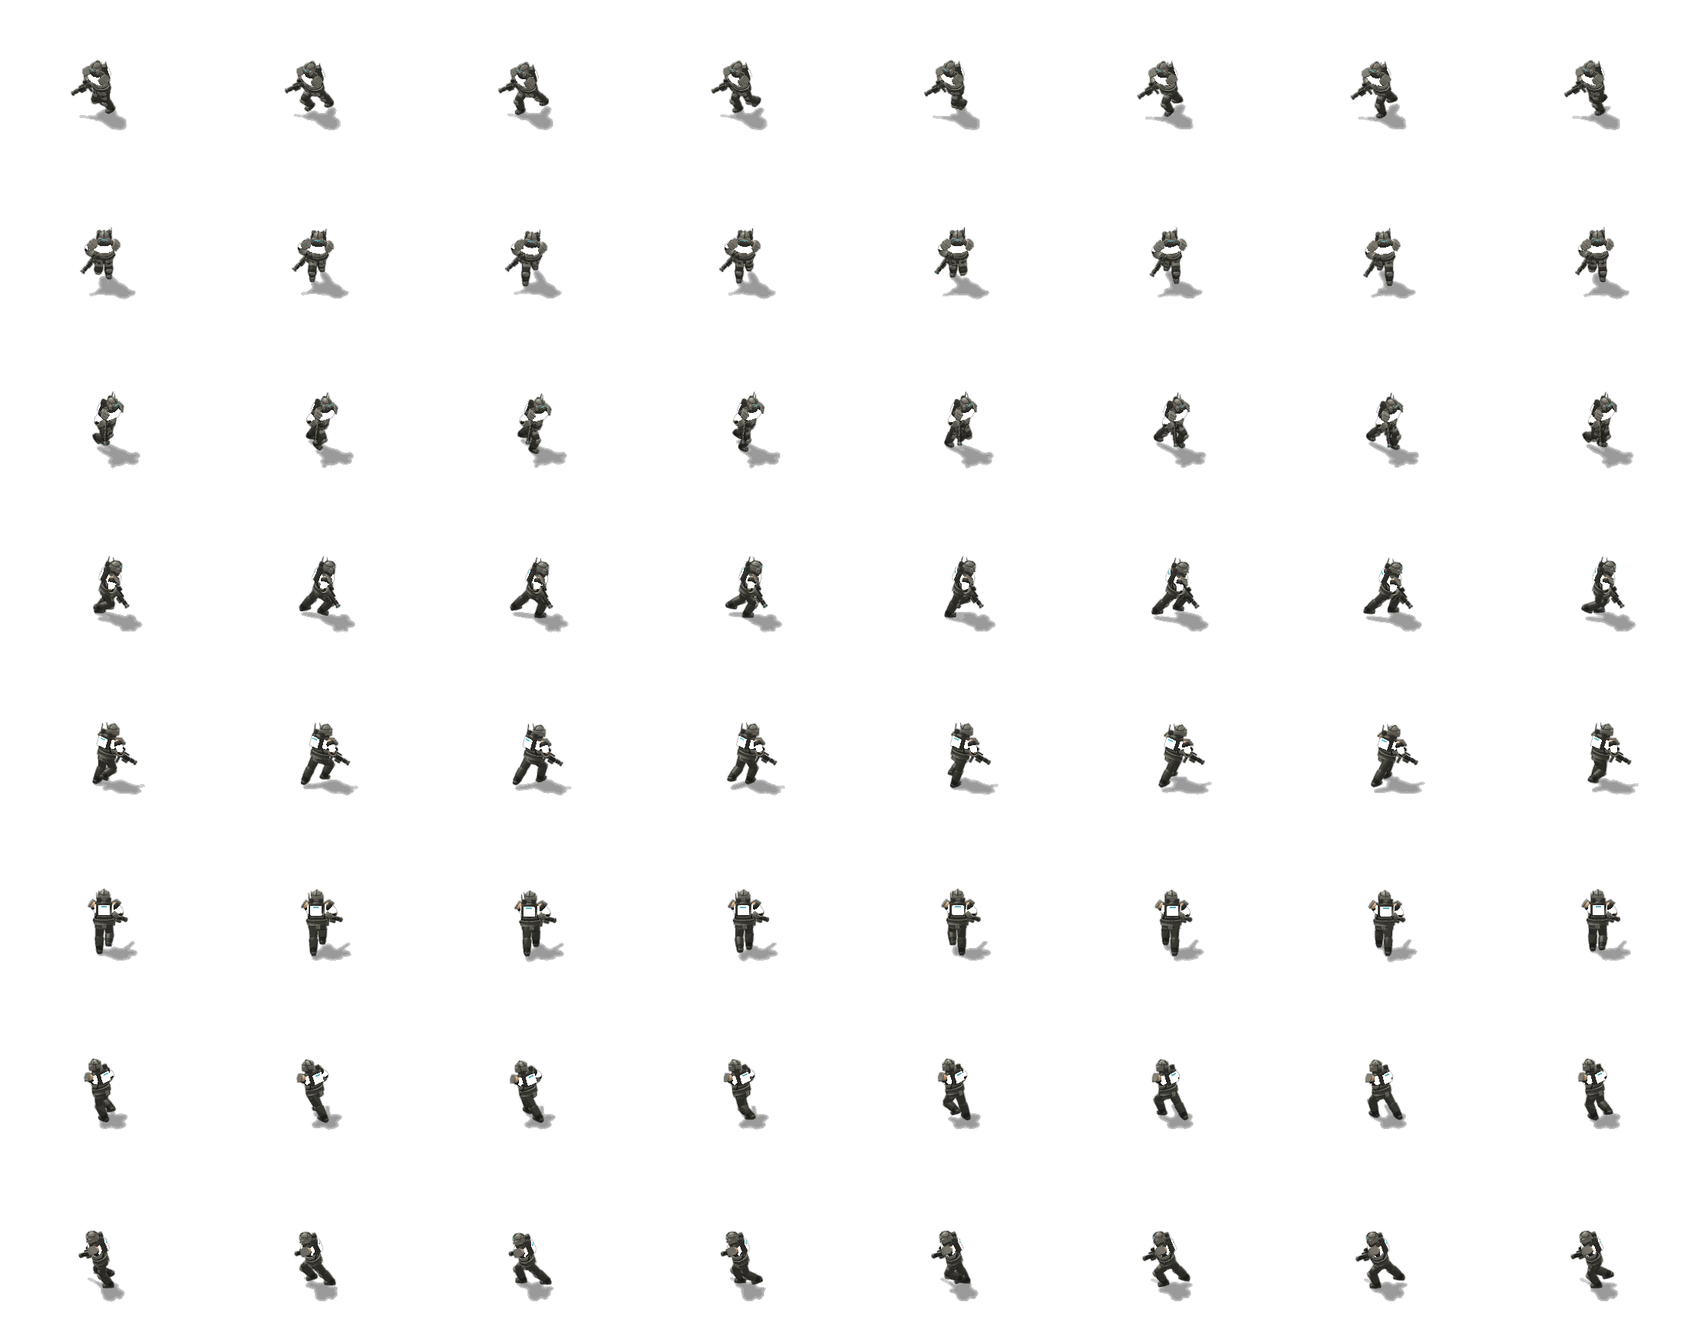
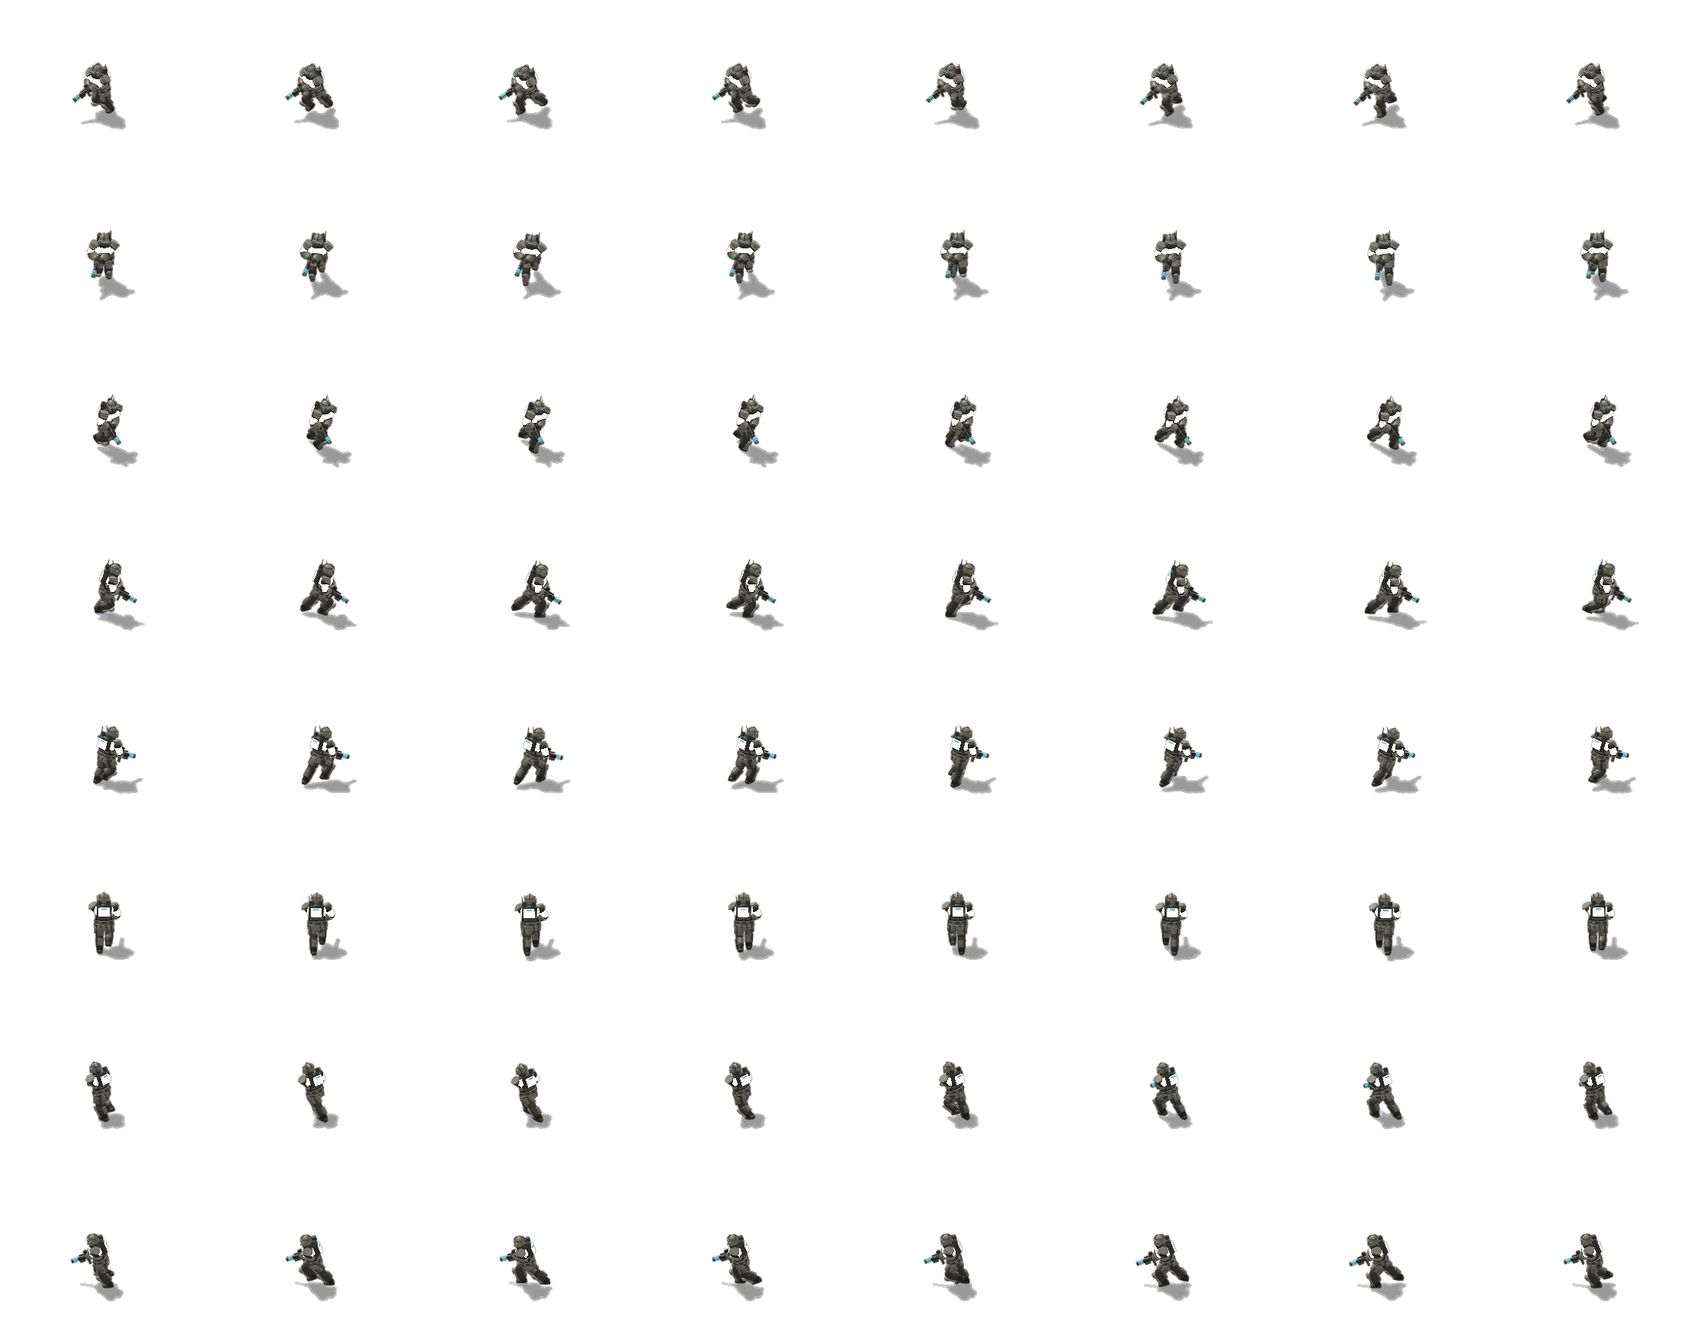
Round 2e for the four regulars, after the fourth review
Deaths (all four): the knees buckle and he falls on his back with the feet kept on the ground by the legs'
inverse kinematics; the arms go slack; the weapon lies beside him along his right side, still in hand.
Special Forces: the carbine carried further forward and the left elbow posed out, so the support arm crosses
in front of the plate carrier with the gloved hand on the handguard (run, attack, fortify). Super Trooper: no
skin in the suit (armoured upper arms, elbow cops, vambraces, gauntlets), pauldrons seated on the shoulder,
the rifle in both hands at a level low ready and fired level from the shoulder, a narrower chest plate with
panel lines, front and back plates proud of the suit on thighs and shins, side and hip plates, a segmented
waist ring, cyan coil rings on the barrel, scale 0.75 (about 1.14x the Marine's area).

diff --git a/ArtGen/units/models/regulars_foot.py b/ArtGen/units/models/regulars_foot.py
@@ -162,7 +162,9 @@ class RegBody(LF.LeagueBody):
         res = []
         for bone, mesh, tag in out:
             new = None
-            if bone.startswith('arm_') and sleeve is not None and len(mesh) and mesh.V[..., 2].min() > -0.12:
+            if p.get('armor') == 'exo' and bone.startswith(('arm_', 'forearm_', 'hand_')):
+                new = self.mats['armor_dark']      # no skin anywhere in the suit
+            elif bone.startswith('arm_') and sleeve is not None and len(mesh) and mesh.V[..., 2].min() > -0.12:
                 new = sleeve        # the shoulder ball only: the stock sleeve's elbow break stays
             elif bone.startswith(('thigh_', 'shin_')) and legs is not None:
                 new = legs
@@ -173,67 +175,82 @@ class RegBody(LF.LeagueBody):
 
     # -- the power armour
     def _exo(self, add, rings, tw, lb):
-        """Plates of a warm dark gunmetal over a darker suit: the chest plate
-        and the upper-arm plates in the civ color (where the stock soldiers'
-        shirts are), pauldrons of three stacked lames, worn lighter edges,
-        pistons down the legs. No lights but the pack's."""
+        """Plates of a warm gunmetal over a darker suit: the chest plate (with
+        panel lines), the back plate and the upper-arm plates in the civ
+        color; pauldrons of three lames seated on the shoulder joint;
+        armoured upper arms, elbows, vambraces and gauntlets; a segmented
+        waist ring and hip plates; front and back plates on thighs and shins,
+        big knee guards. No lights but the pack's and the visor."""
         pl = self.mm('plate', '#3c4aa0', spec=0.45, gloss=22)
         gm = self.mm('armor_grey', '#7c7a6e', spec=0.45, gloss=22, metal=True)
+        g2 = self.mm('armor_grey2', '#64625a', spec=0.45, gloss=22, metal=True)
         dk = self.mm('armor_dark', '#3a3934', spec=0.35, gloss=18, metal=True)
-        wr = self.mm('armor_wear', '#5e5c54', spec=0.45, gloss=22, metal=True)
         g = 0.045
         # the suit's yoke over the shoulders, the chest plate a shell over the
-        # front, the back plate behind, a collar
+        # front (narrower than the chest: grey side plates under the arms),
+        # panel lines on it, the back plate behind, a collar
         cr = [(z, rx + g, ry + g * 1.2, dx, dy) for z, rx, ry, dx, dy in rings[:4]]
         add('chest', M.loft([(z, rx + 0.022, ry + 0.026, dx, dy) for z, rx, ry, dx, dy in rings[1:5]], dk, seg=18,
                             cap_bottom=False, cap_top=True))
         front = [(-0.02, rings[0][1] + g * 0.6, rings[0][2] + g, 0, 0)] + cr[1:] + \
                 [(0.29, rings[4][1] + 0.06, rings[4][2] + 0.05, 0, 0)]
-        add('chest', H._shell(front, pl, math.radians(14), math.radians(166), seg=16))
-        # worn rim along the plate's lower edge, the centre ridge
-        f0 = front[0]
+        add('chest', H._shell(front, pl, math.radians(34), math.radians(146), seg=14))
+        for a0, a1 in ((8, 34), (146, 172)):
+            add('chest', H._shell([(z, rx - 0.004, ry - 0.004, dx, dy) for z, rx, ry, dx, dy in front[:4]], g2,
+                                  math.radians(a0), math.radians(a1), seg=4))
         yf = rings[1][2] + rings[1][4] + g * 1.2
+        add('chest', M.box(rings[1][1] * 1.05, 0.02, 0.016, dk, (0, yf + 0.008, 0.16)))              # panel lines
+        add('chest', M.box(rings[1][1] * 0.9, 0.02, 0.016, dk, (0, yf - 0.004, 0.06)))
+        for sx in (1, -1):
+            add('chest', M.box(0.016, 0.02, 0.09, dk, (sx * 0.09, yf + 0.004, 0.11)))
         back = [(-0.02, rings[0][1] + g * 0.6, rings[0][2] + g, 0, 0)] + cr[1:3] + \
                [(0.27, rings[3][1] + 0.03, rings[3][2] + 0.04, 0, 0)]
-        add('chest', H._shell(back, pl, math.radians(196), math.radians(344), seg=14))
+        add('chest', H._shell(back, pl, math.radians(200), math.radians(340), seg=14))
         add('chest', M.loft([(0.26, 0.15, 0.12), (0.36, 0.115, 0.10)], dk, seg=16, cap_bottom=False, cap_top=True))
         # the abdomen: bands, gunmetal and dark
         for i, z in enumerate((-0.04, 0.035, 0.11)):
             add('spine', M.cylinder(0.165 * tw + 0.035, 0.17 * tw + 0.035, 0.06, gm if i != 1 else dk, seg=16, z0=z)
                 .transformed(M.scale(1, 0.78, 1)))
-        # the belt with pouches, tassets
-        add('pelvis', M.loft([(-0.04, 0.19 * tw + 0.03, 0.14 * tw + 0.03), (0.10, 0.19 * tw + 0.028, 0.14 * tw + 0.028)],
+        # the waist ring in eight segments with gaps, over a dark belt; hip plates all round
+        add('pelvis', M.loft([(-0.02, 0.19 * tw + 0.02, 0.14 * tw + 0.02), (0.10, 0.19 * tw + 0.018, 0.14 * tw + 0.018)],
                              dk, seg=16, cap_bottom=True, cap_top=False))
-        for ang in (-50, -20, 20, 50, 180):
+        for k in range(8):
+            ang = 22.5 + 45 * k
+            a = math.radians(ang)
+            x, y = (0.19 * tw + 0.035) * math.cos(a), (0.14 * tw + 0.035) * math.sin(a)
+            add('pelvis', M.rounded_box(0.09, 0.03, 0.09, g2, (0, 0, 0.05), r=0.01, seg=6, p=4).transformed(
+                M.translate(x, y, 0) @ M.rot_z(ang - 90)))
+        for ang in (-60, -25, 25, 60, 90, -90, 150, 180, 210):
             a = math.radians(ang + 90)
-            x, y = 0.19 * tw * math.cos(a) * 1.08, 0.14 * tw * math.sin(a) * 1.15
+            x, y = 0.19 * tw * math.cos(a) * 1.12, 0.14 * tw * math.sin(a) * 1.2
             T = M.translate(x, y, 0.0) @ M.rot_z(ang) @ M.rot_x(-8)
-            add('pelvis', M.rounded_box(0.12, 0.025, 0.14, gm, (0, 0, -0.07), r=0.01, seg=6, p=4).transformed(T))
-        for sx in (1, -1):
-            add('pelvis', M.rounded_box(0.07, 0.06, 0.08, dk, (sx * 0.20 * tw, 0.04, 0.05), r=0.012, seg=6, p=4))
+            add('pelvis', M.rounded_box(0.12, 0.028, 0.15, gm, (0, 0, -0.075), r=0.01, seg=6, p=4).transformed(T))
         for side, sx in (('r', 1), ('l', -1)):
-            # pauldrons: three lames stacked down the shoulder, each angled out
+            # pauldrons: three lames seated on the shoulder joint, stepping down and out
             for k in range(3):
-                T = M.translate(sx * (0.06 + 0.04 * k), 0.0, 0.08 - 0.06 * k) @ M.rot_y(sx * (20 + 14 * k))
-                add(f'arm_{side}', M.rounded_box(0.22 - 0.02 * k, 0.26 - 0.02 * k, 0.05, gm, (0, 0, 0), r=0.016,
-                                                 seg=6, p=4).transformed(T))
-            # the upper-arm plate in the civ color, a dark elbow cop, a gunmetal vambrace, gauntlet
-            add(f'arm_{side}', M.capsule((0, 0, -0.10), (0, 0, -0.24), 0.07 * lb + 0.01, 0.064 * lb + 0.01, pl,
+                T = M.translate(sx * (0.025 + 0.03 * k), 0.0, 0.10 - 0.055 * k) @ M.rot_y(sx * (14 + 13 * k))
+                add(f'arm_{side}', M.rounded_box(0.24 - 0.025 * k, 0.27 - 0.025 * k, 0.05, gm if k != 1 else g2,
+                                                 (0, 0, 0), r=0.016, seg=6, p=4).transformed(T))
+            # armoured upper arm (civ color), a dark elbow cop, a gunmetal vambrace, a gauntlet
+            add(f'arm_{side}', M.capsule((0, 0, -0.03), (0, 0, -0.25), 0.072 * lb + 0.012, 0.066 * lb + 0.012, pl,
                                          seg=12, rings=2))
-            add(f'forearm_{side}', M.rounded_box(0.10, 0.11, 0.08, dk, (0, -0.02, 0.0), r=0.025, seg=6, p=3))
-            add(f'forearm_{side}', M.loft([(-0.22, 0.062 * lb + 0.016, 0.062 * lb + 0.016),
+            add(f'forearm_{side}', M.rounded_box(0.11, 0.12, 0.09, dk, (0, -0.02, 0.0), r=0.025, seg=6, p=3))
+            add(f'forearm_{side}', M.loft([(-0.24, 0.062 * lb + 0.016, 0.062 * lb + 0.016),
                                            (-0.12, 0.074 * lb + 0.022, 0.074 * lb + 0.022),
-                                           (-0.04, 0.07 * lb + 0.016, 0.07 * lb + 0.016)], gm, seg=12))
-            add(f'hand_{side}', M.ellipsoid(0.05 * H.HAND, 0.06 * H.HAND, 0.068 * H.HAND, dk, (0, 0.008, -0.055), seg=9))
-            # legs: thigh plates, knee cop, shin plate, boot armour, pistons on the outside
-            add(f'thigh_{side}', M.capsule((0, 0, 0.0), (0, 0, -H.THIGH + 0.04), 0.095 * lb, 0.078 * lb, dk, seg=12, rings=2))
-            add(f'thigh_{side}', M.rounded_box(0.21, 0.10, 0.28, gm, (0, 0.075, -0.17), r=0.04, seg=8, p=3))
-            add(f'shin_{side}', M.capsule((0, -0.01, 0.02), (0, -0.01, -0.06), 0.07 * lb, 0.07 * lb, dk, seg=10, rings=2))
-            add(f'shin_{side}', M.rounded_box(0.18, 0.10, 0.15, gm, (0, 0.095, -0.01), r=0.035, seg=8, p=3))
-            add(f'shin_{side}', M.capsule((0, 0, -0.05), (0, 0, -H.SHIN + 0.12), 0.088 * lb, 0.078 * lb, dk, seg=12, rings=2))
-            add(f'shin_{side}', M.rounded_box(0.19, 0.11, 0.25, gm, (0, 0.05, -0.19), r=0.04, seg=8, p=3))
-            add(f'thigh_{side}', M.rounded_box(0.19, 0.08, 0.26, gm, (0, -0.07, -0.17), r=0.035, seg=8, p=3))   # back of thigh
-            add(f'shin_{side}', M.rounded_box(0.16, 0.08, 0.24, gm, (0, -0.06, -0.17), r=0.035, seg=8, p=3))    # calf guard
+                                           (-0.03, 0.07 * lb + 0.018, 0.07 * lb + 0.018)], gm, seg=12))
+            add(f'hand_{side}', M.ellipsoid(0.052 * H.HAND, 0.062 * H.HAND, 0.07 * H.HAND, dk, (0, 0.008, -0.055), seg=9))
+            add(f'hand_{side}', M.rounded_box(0.07, 0.03, 0.07, g2, (0, -0.045, -0.05), r=0.012, seg=6, p=4))
+            # legs: front and back plates proud of the suit, big knee guards
+            rt, rs = 0.095 * lb, 0.088 * lb
+            add(f'thigh_{side}', M.capsule((0, 0, 0.0), (0, 0, -H.THIGH + 0.04), rt, 0.082 * lb, dk, seg=12, rings=2))
+            add(f'thigh_{side}', M.rounded_box(0.21, 0.07, 0.28, gm, (0, rt + 0.01, -0.17), r=0.03, seg=8, p=3))
+            add(f'thigh_{side}', M.rounded_box(0.19, 0.06, 0.25, g2, (0, -rt - 0.005, -0.17), r=0.028, seg=8, p=3))
+            add(f'thigh_{side}', M.rounded_box(0.05, 0.16, 0.22, g2, (sx * (rt + 0.005), 0.0, -0.16), r=0.02, seg=8, p=3))
+            add(f'shin_{side}', M.capsule((0, -0.01, 0.02), (0, -0.01, -0.06), 0.075 * lb, 0.075 * lb, dk, seg=10, rings=2))
+            add(f'shin_{side}', M.rounded_box(0.19, 0.09, 0.16, gm, (0, rs + 0.03, -0.01), r=0.035, seg=8, p=3))   # knee
+            add(f'shin_{side}', M.capsule((0, 0, -0.05), (0, 0, -H.SHIN + 0.12), rs, 0.078 * lb, dk, seg=12, rings=2))
+            add(f'shin_{side}', M.rounded_box(0.19, 0.07, 0.24, gm, (0, rs + 0.005, -0.19), r=0.03, seg=8, p=3))   # shin
+            add(f'shin_{side}', M.rounded_box(0.17, 0.06, 0.22, g2, (0, -rs - 0.005, -0.17), r=0.028, seg=8, p=3))  # calf
             add(f'foot_{side}', M.rounded_box(0.135 * H.FOOT, 0.28 * H.FOOT, 0.11, dk, (0, 0.05, -0.035), r=0.03, seg=10, p=3))
             add(f'foot_{side}', M.rounded_box(0.12 * H.FOOT, 0.10, 0.065, gm, (0, 0.165, -0.025), r=0.022, seg=8, p=3))
         add('chest', RG.power_pack(self.mats).transformed(M.translate(0, -0.25, 0.14) @ M.scale(1.25) @ M.translate(0, 0.25, -0.14)
@@ -331,44 +348,51 @@ class RegularSoldier(LF.LeagueSoldier):
             self._props[key] = getattr(RG, name)(self.mats, **kw).transformed(M.scale(k, k, 1.0))
         return self._props[key]
 
-    # -- death: the stock fall (humanoid.anim_death) for the body and legs,
-    # but the arms stay on inverse kinematics from the unit's own standing
-    # pose, so frame 0 is the default pose; over the first half of the fall
-    # the weapon turns, a little each frame, until it lies across the body,
-    # still in the right hand, and the left hand lets go and falls bent
-    # beside the head. No spread-armed T at the end, nothing flung away.
+    # -- death: shot, the knees buckle, he sits back and falls on his back.
+    # The legs stay on inverse kinematics with the feet on the ground all
+    # the way down (no plank falling with the feet in the air); the arms go
+    # slack from the unit's own standing pose (frame 0 is the default pose)
+    # and the weapon, still in the right hand, turns over about five frames
+    # to lie on the ground along his right side, muzzle to the feet.
     def action(self, action, ctx):
         if self.anim_name(action) != 'death' or not self.gun:
             return super().action(action, ctx)
-        key = ('death_held', action, ctx.n if ctx else None)
+        key = ('death_slack', action, ctx.n if ctx else None)
         if key in self._cache:
             return self._cache[key]
-        B = self.base
-        d = H.anim_death(B, None, None, ctx)
+        B = dict(self.base)
         down = ctx.event('down', 0.55) if ctx is not None else 0.55
         down = min(max(down or 0.55, 0.35), 0.85)
-        across = {'hand_r': (0.12, 0.24, 1.12), 'w_main': (-90, 0, 80), 'support': 0.0,
-                  'hand_l': (-0.42, -0.02, 1.66), 'elbow_r': (0.9, -0.3, -0.4), 'elbow_l': (-0.8, -0.3, 0.2)}
-        if self.p.get('death_hold') == 'side':
-            # the weapon down along the right side, muzzle to the feet; both elbows bent, the left hand on
-            # the chest, clear of the weapon
-            across = {'hand_r': (0.28, 0.10, 1.00), 'w_main': (172, 0, 6), 'support': 0.0,
-                      'hand_l': (-0.10, 0.22, 1.30), 'elbow_r': (0.9, -0.3, -0.3), 'elbow_l': (-0.9, -0.3, -0.2)}
-        mid = {'hand_r': tuple(0.5 * (_v(B['hand_r']) + _v(across['hand_r']))),
-               'w_main': tuple(_v(B['w_main']) * 0.5 + _v(across['w_main']) * 0.5),
-               'support': 0.5 * float(B.get('support', 0.0)),
-               'hand_l': (-0.36, 0.10, 1.30), 'elbow_r': (0.9, -0.3, -0.4), 'elbow_l': (-0.8, -0.3, -0.2)}
-        arms = H.keys(dict(B), [(0.0, {}), (0.16, mid), (0.36, across), (1.0, across)])
+        A_ = H.ANKLE_H
+        fr, fl = tuple(B['foot_r']), tuple(B['foot_l'])
+        slack = {'hand_r': (0.30, 0.06, 0.80), 'w_main': (172, 0, 4), 'support': 0.0,
+                 'hand_l': (-0.36, 0.10, 0.92), 'elbow_r': (0.9, -0.3, -0.2), 'elbow_l': (-0.9, -0.2, -0.2)}
+        mid = {'hand_r': tuple(0.5 * (_v(B['hand_r']) + _v(slack['hand_r']))),
+               'w_main': tuple(_v(B['w_main'])),
+               'support': 0.4 * float(B.get('support', 0.0)),
+               'hand_l': (-0.34, 0.16, 1.05), 'elbow_r': (0.9, -0.3, -0.3), 'elbow_l': (-0.9, -0.3, -0.2)}
+        k = [
+            (0.0, {}),
+            (0.14, dict({'root_rot': (8, 0, 4), 'root_pos': (0, -0.04, -0.03), 'chest': (10, 0, 6), 'head': (18, 0, 0),
+                         'foot_r': fr, 'foot_l': fl})),
+            (0.30, dict(mid, root_rot=(14, 0, 8), root_pos=(0, -0.10, -0.36), spine=(8, 0, 0), chest=(14, 0, 6),
+                        head=(20, 0, 0), foot_r=fr, foot_l=fl)),
+            (0.52, dict(slack, w_main=(-150, 0, 6), root_rot=(46, 0, 8), root_pos=(0, -0.32, -0.62), spine=(6, 0, 0), chest=(8, 0, 4),
+                        head=(14, 0, 8), foot_r=(0.18, 0.06, A_), foot_l=(-0.17, 0.12, A_))),
+            (0.74, dict(slack, root_rot=(86, 0, 6), root_pos=(0, -0.52, -0.75), spine=(0, 0, 0), chest=(0, 0, 2),
+                        head=(-6, 0, 18), foot_r=(0.22, 0.22, A_), foot_l=(-0.18, 0.26, A_))),
+            (1.0, dict(slack, root_rot=(90, 0, 6), root_pos=(0, -0.54, -0.77), spine=(0, 0, 0), chest=(0, 0, 2),
+                       head=(-8, 0, 22), foot_r=(0.24, 0.24, A_), foot_l=(-0.18, 0.28, A_),
+                       toe_r=-30.0, toe_l=-30.0)),
+        ]
+        anim = H.keys(B, k)
 
         def fn(t):
-            p = d.fn(t)
-            a = arms(H._warp(t, [(0.62, down)]))
-            for c in ('hand_r', 'hand_l', 'w_main', 'support', 'elbow_r', 'elbow_l'):
-                p[c] = _v(a[c])
+            p = anim(H._warp(t, [(0.52, down)]))
             p['follow'] = _v(1.0)
             p['follow_rot'] = _v(1.0)
             return p
-        act = FM.Act(fn, legs=d.legs, arms='ik', drop_t=None)
+        act = FM.Act(fn, legs='ik', arms='ik', drop_t=None)
         self._cache[key] = act
         return act
 

diff --git a/ArtGen/units/catalog/modern_mod_foot.py b/ArtGen/units/catalog/modern_mod_foot.py
@@ -18,16 +18,16 @@ UNITS = {
     'Super Trooper': {
         'archetype': 'regular_soldier',
         'build': {'build': 'muscular', 'bulk': 1.10},
-        'scale': 0.79,
+        'scale': 0.75,
         'gun_thick': 1.9,
         'colors': {'skin': '#c8a07a', 'top': '#2e2d29', 'trousers': '#2e2d29', 'boots': '#26251f',
                    'belt': '#26251f', 'strap': '#26251f'},
         'tint': ['plate'],
         'hair': 'none', 'hat': 'exo', 'armor': 'exo', 'top': 'long_sleeved', 'legs': 'trousers', 'feet': 'boots',
-        'gun': 'pulse_rifle', 'hold': 'low', 'aim': 'hip', 'fire_start': 'aim', 'fire_end': 'aim', 'fire_blend': 3,
-        'poses': {'carry': {'hand_r': (0.30, 0.18, 1.02), 'w_main': (-108, 0, -40), 'support': 1.0,
-                            'elbow_r': (0.9, -0.4, -0.3), 'elbow_l': (-0.4, -0.3, -0.9)},
-                  'aim': {'hand_r': (0.26, 0.26, 1.04), 'w_main': (-94, 0, -20)}},
+        'gun': 'pulse_rifle', 'hold': 'low', 'aim': 'shoulder', 'fire_start': 'aim', 'fire_end': 'aim', 'fire_blend': 3,
+        'poses': {'carry': {'hand_r': (0.24, 0.30, 1.04), 'w_main': (-96, 0, -12), 'support': 1.0,
+                            'elbow_r': (0.9, -0.4, -0.3), 'elbow_l': (-0.8, 0.1, -0.5)},
+                  'aim': {'elbow_l': (-0.8, 0.2, -0.6)}},
         'flash': 'laser', 'beam_len': 1.5,
         'shots': {'ATTACK1': [3, 4, 7, 8, 9, 10, 14, 15, 16, 17]},
         'fortify': 'kneel', 'victory': 'raise',

diff --git a/ArtGen/units/catalog/league_foot.py b/ArtGen/units/catalog/league_foot.py
@@ -46,12 +46,12 @@ UNITS = {
         'hair': 'short', 'beard': True, 'hat': 'fast', 'top': 'long_sleeved', 'vest': 'flak',
         'legs': 'trousers', 'cargo': True, 'feet': 'boots',
         'kit': ['plate_carrier', 'assault_pack', 'kneepads', 'gloves', 'holster', 'flag'],
-        'poses': {'carry': {'hand_r': (0.26, 0.26, 1.10), 'w_main': (-100, 0, 34), 'support': 1.0,
-                            'elbow_r': (0.9, -0.3, -0.4), 'elbow_l': (-0.5, -0.3, -0.8)}},
+        'poses': {'carry': {'hand_r': (0.24, 0.40, 1.08), 'w_main': (-98, 0, 28), 'support': 1.0,
+                            'elbow_r': (0.9, -0.3, -0.4), 'elbow_l': (-0.9, 0.1, -0.5)},
+                  'aim': {'elbow_l': (-0.8, 0.2, -0.6)}},
         'gun': 'sf_carbine', 'hold': 'across', 'aim': 'shoulder', 'fire_start': 'aim', 'fire_end': 'aim',
         'flash': 'burst', 'smoke': None, 'flash_size': 0.12, 'fire_blend': 3,
         'shots': {'ATTACK1': [3, 5, 7, 9, 12]},
-        'death_hold': 'side',
         'fortify': 'kneel', 'victory': 'raise',
         'actions': {'ATTACK1': 'fire', 'ATTACK2': 'lunge'},
     },

diff --git a/ArtGen/units/models/regulars_gear.py b/ArtGen/units/models/regulars_gear.py
@@ -343,8 +343,9 @@ def pulse_rifle(mats, muzzle=0.62):
         parts.append(M.box(0.054, 0.012, 0.02, body, (0, 0.0, z)))
     parts.append(M.cylinder(0.022, 0.022, 0.16, body, seg=10, z0=0.22).transformed(M.translate(0, 0.055, 0)))  # grenade tube
     parts.append(M.cylinder(0.016, 0.016, muzzle - 0.40, body, seg=8, z0=0.40))                       # barrel
-    for z in (0.43, 0.47, 0.51):
-        parts.append(M.cylinder(0.03, 0.03, 0.022, dark, seg=12, z0=z))                               # coil rings
+    glow = mat(mats, 'glow', '#7ad8e8', spec=0.0)
+    for z in (0.42, 0.47, 0.52):
+        parts.append(M.cylinder(0.036, 0.036, 0.026, glow, seg=12, z0=z))                             # the coil, lit
     parts.append(M.lathe([(muzzle - 0.07, 0.022), (muzzle - 0.02, 0.034), (muzzle, 0.036)], body, seg=12))  # emitter
     parts.append(M.cylinder(0.02, 0.02, 0.004, mat(mats, 'lens', '#5aa8b8', spec=0.9, gloss=40), seg=10, z0=muzzle))
     return M.Mesh.concat(parts)
